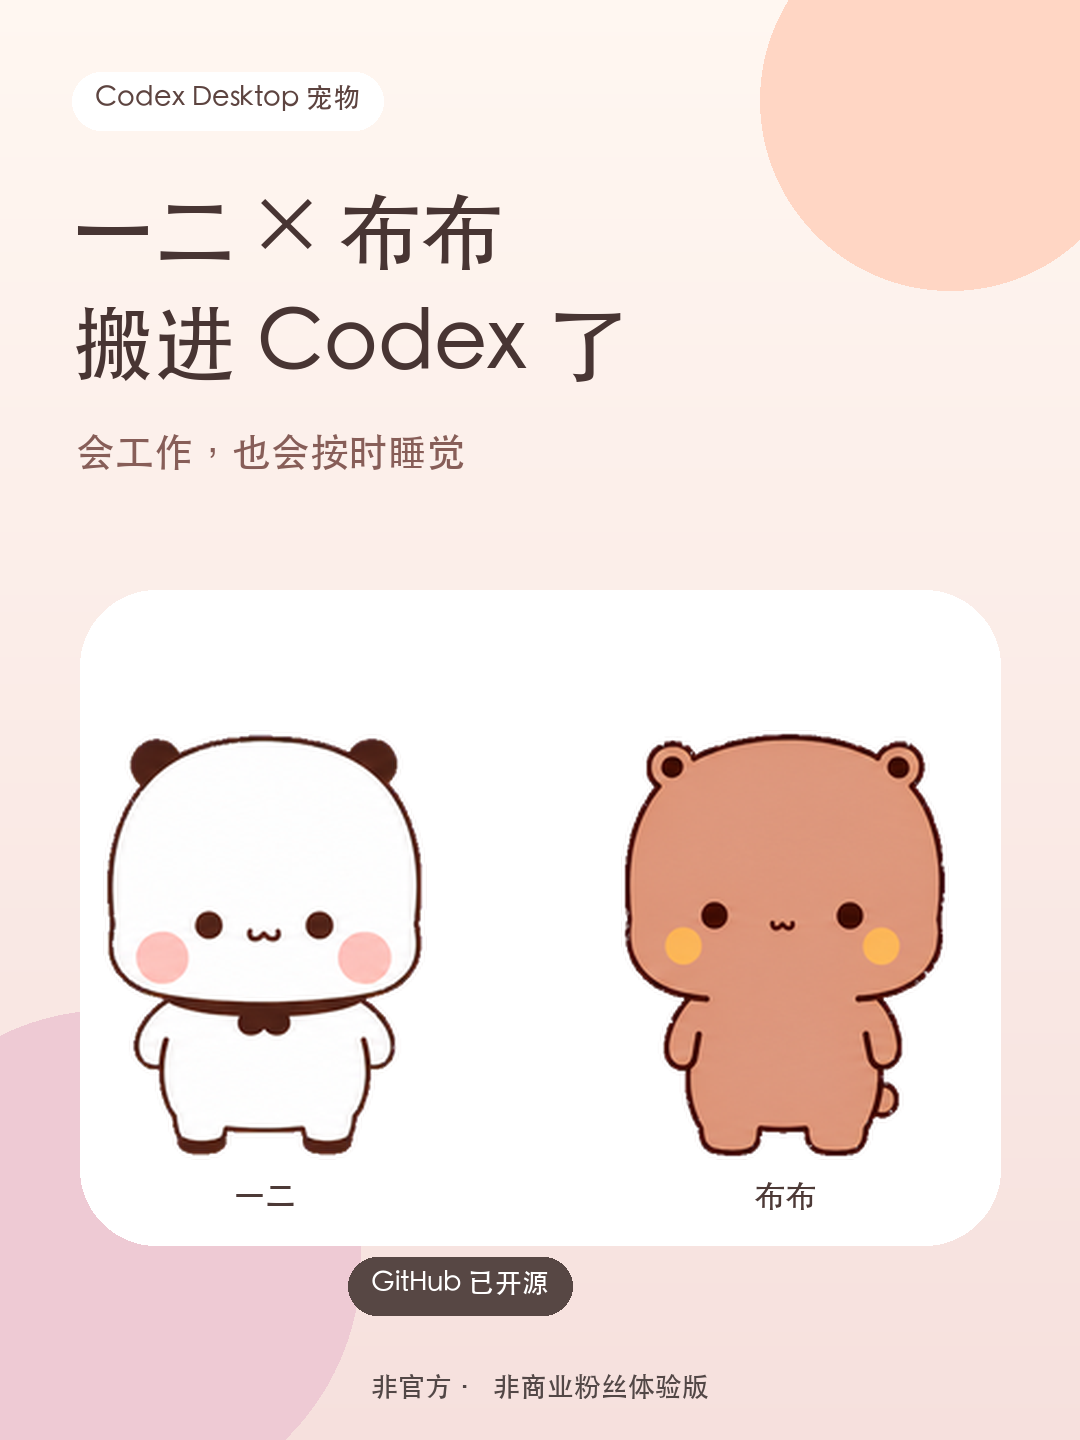
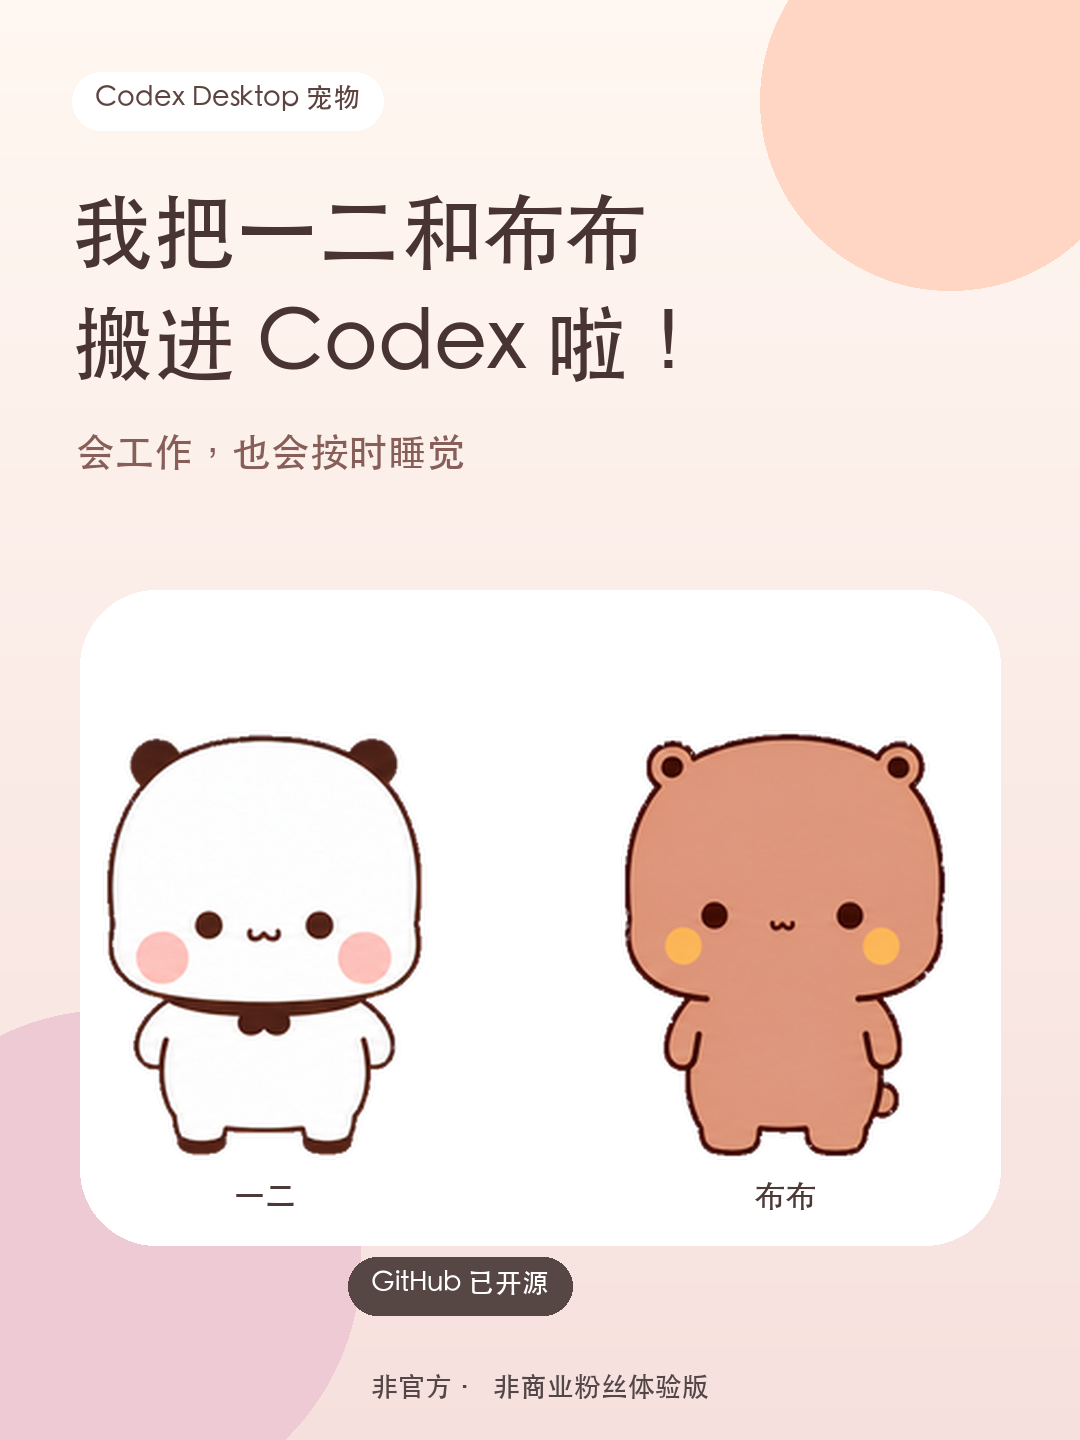
feat: add one-line install and refresh Xiaohongshu assets (#1)

Changed region(s): [[0.0611, 0.125, 0.6111, 0.1875], [0.4889, 0.2188, 0.5806, 0.2812], [0.6111, 0.2188, 0.6417, 0.25]]

diff --git a/scripts/build_xiaohongshu_cards.py b/scripts/build_xiaohongshu_cards.py
@@ -90,8 +90,8 @@ def build_cover() -> None:
     draw.ellipse((760, -90, 1140, 290), fill=(255, 214, 196, 110))
     draw.ellipse((-140, 1010, 360, 1510), fill=(238, 202, 212, 105))
     badge(draw, (72, 72), "Codex Desktop 宠物", (255, 255, 255, 215), (93, 68, 64, 255))
-    draw.text((72, 190), "一二 × 布布", font=F_TITLE, fill=(72, 53, 51, 255))
-    draw.text((72, 302), "搬进 Codex 了", font=F_TITLE, fill=(72, 53, 51, 255))
+    draw.text((72, 190), "我把一二和布布", font=F_TITLE, fill=(72, 53, 51, 255))
+    draw.text((72, 302), "搬进 Codex 啦！", font=F_TITLE, fill=(72, 53, 51, 255))
     draw.text((76, 432), "会工作，也会按时睡觉", font=F_SUBTITLE, fill=(135, 94, 88, 255))
 
     draw.rounded_rectangle((80, 590, 1000, 1245), radius=76, fill=(255, 255, 255, 205))
@@ -134,50 +134,23 @@ def build_install() -> None:
     canvas = gradient((246, 242, 236), (234, 225, 213))
     draw = ImageDraw.Draw(canvas)
     badge(draw, (72, 72), "macOS 安装", (255, 255, 255, 220), (81, 66, 57, 255))
-    draw.text((72, 184), "4 行命令", font=F_TITLE, fill=(65, 52, 46, 255))
-    draw.text((72, 296), "养进 Codex", font=F_TITLE, fill=(65, 52, 46, 255))
+    draw.text((72, 184), "复制这一条", font=F_TITLE, fill=(65, 52, 46, 255))
+    draw.text((72, 296), "就能养进 Codex", font=F_TITLE, fill=(65, 52, 46, 255))
     draw.rounded_rectangle((65, 475, 1015, 1035), radius=45, fill=(44, 40, 40, 245))
-    commands = [
-        ("01", "git clone https://github.com/", 548),
-        ("", "skye-luo/yier-bubu-codex-pet.git", 596),
-        ("02", "cd yier-bubu-codex-pet", 700),
-        ("03", "bash install.sh", 805),
-        ("04", "bash install-sleep-mode.sh", 910),
+    badge(draw, (100, 535), "一条命令", (229, 177, 159, 255), (51, 42, 39, 255))
+    command_lines = [
+        "curl -fsSL https://raw.githubusercontent.com/",
+        "skye-luo/yier-bubu-codex-pet/v1.0.1/",
+        "quick-install.sh | bash",
     ]
-    for number, command, y in commands:
-        if number:
-            draw.rounded_rectangle((100, y - 7, 160, y + 45), radius=16, fill=(229, 177, 159, 255))
-            text_center(draw, (130, y + 2), number, F_CODE, (51, 42, 39, 255))
-        draw.text((190 if number else 190, y), command, font=F_CODE, fill=(245, 241, 237, 255))
+    for index, command in enumerate(command_lines):
+        draw.text((100, 665 + index * 72), command, font=F_CODE, fill=(245, 241, 237, 255))
+    draw.text((100, 915), "同一条命令 · 终端整行复制", font=F_SMALL, fill=(205, 190, 185, 255))
     draw.rounded_rectangle((65, 1085, 1015, 1290), radius=42, fill=(255, 255, 255, 205))
-    draw.text((110, 1128), "安装后重启 Codex", font=F_HEADING, fill=(73, 59, 53, 255))
-    draw.text((110, 1206), "设置 → 外观 → Pets → 选择角色", font=F_BODY, fill=(116, 89, 79, 255))
+    draw.text((110, 1128), "自动安装 + 自动睡眠", font=F_HEADING, fill=(73, 59, 53, 255))
+    draw.text((110, 1206), "重启 Codex → Pets → 选择角色", font=F_BODY, fill=(116, 89, 79, 255))
     footer(draw)
     canvas.convert("RGB").save(OUTPUT / "03-install.png", quality=95)
-
-
-def build_features() -> None:
-    canvas = gradient((251, 246, 247), (240, 230, 235))
-    draw = ImageDraw.Draw(canvas)
-    badge(draw, (72, 72), "独立双角色项目", (255, 255, 255, 220), (90, 64, 73, 255))
-    draw.text((72, 184), "设置里始终只有", font=F_TITLE, fill=(66, 47, 53, 255))
-    draw.text((72, 296), "一二和布布", font=F_TITLE, fill=(66, 47, 53, 255))
-    items = [
-        ("01", "不会出现“睡觉版”角色卡"),
-        ("02", "22 点自动睡，8 点自动醒"),
-        ("03", "安装前备份，可恢复卸载"),
-        ("04", "项目源码与安装说明已公开"),
-    ]
-    for index, (number, value) in enumerate(items):
-        y = 520 + index * 155
-        draw.rounded_rectangle((65, y, 1015, y + 118), radius=38, fill=(255, 255, 255, 210))
-        draw.rounded_rectangle((95, y + 29, 157, y + 91), radius=20, fill=(230, 195, 202, 255))
-        text_center(draw, (126, y + 42), number, F_SMALL, (75, 55, 61, 255))
-        draw.text((190, y + 35), value, font=F_BODY, fill=(78, 58, 64, 255))
-    draw.text((75, 1195), "GitHub", font=F_HEADING, fill=(72, 53, 59, 255))
-    draw.text((75, 1270), "skye-luo / yier-bubu-codex-pet", font=F_BODY, fill=(117, 80, 92, 255))
-    footer(draw)
-    canvas.convert("RGB").save(OUTPUT / "04-features.png", quality=95)
 
 
 def main() -> int:
@@ -185,8 +158,7 @@ def main() -> int:
     build_cover()
     build_sleep()
     build_install()
-    build_features()
-    print(f"已生成 4 张小红书图片：{OUTPUT}")
+    print(f"已生成 3 张小红书图片：{OUTPUT}")
     return 0
 
 

diff --git a/README.md b/README.md
@@ -19,16 +19,22 @@
 - [一二夜间动作表：仅待机行睡觉](docs/yier-sleep-contact-sheet.png)
 - [布布夜间动作表：仅待机行睡觉](docs/bubu-sleep-contact-sheet.png)
 
-## 安装（macOS）
+## 一行安装（macOS）
 
 ```bash
-git clone https://github.com/skye-luo/yier-bubu-codex-pet.git
+curl -fsSL https://raw.githubusercontent.com/skye-luo/yier-bubu-codex-pet/v1.0.1/quick-install.sh | bash
+```
+
+这条命令会安装两个宠物并启用 22:00–08:00 自动睡眠。安装完成后重启 Codex，进入 `设置 → 外观 → Pets`，选择“一二”或“布布”。
+
+如果你希望先查看脚本再执行，也可以使用透明的分步安装：
+
+```bash
+git clone --branch v1.0.1 https://github.com/skye-luo/yier-bubu-codex-pet.git
 cd yier-bubu-codex-pet
 bash install.sh
 bash install-sleep-mode.sh
 ```
-
-安装完成后重启 Codex，进入 `设置 → 外观 → Pets`，选择“一二”或“布布”。
 
 `install-sleep-mode.sh` 会启用自动睡眠：
 
@@ -69,6 +75,7 @@ bash uninstall.sh
 ├── social/xiaohongshu/
 ├── install.sh
 ├── install-sleep-mode.sh
+├── quick-install.sh
 ├── uninstall.sh
 ├── uninstall-sleep-mode.sh
 └── verify.sh

diff --git a/social/xiaohongshu/copy.md b/social/xiaohongshu/copy.md
@@ -2,7 +2,7 @@
 
 ## 标题
 
-一二和布布搬进 Codex 了
+我把一二和布布搬进 Codex 啦！
 
 ## 正文
 
@@ -14,11 +14,11 @@
 • 一旦开始工作，会继续使用原来的工作动画
 • 设置里始终只有“一二”和“布布”，不会多出睡觉版角色
 
-这次已经拆成只包含这两个角色的独立开源项目：
+这次已经拆成只包含这两个角色的独立项目，安装代码已开源：
 GitHub：skye-luo/yier-bubu-codex-pet
-Release：v1.0.0
+Release：v1.0.1
 
-macOS 安装命令在第 3 张图和 README 里。安装完成后重启 Codex，在“设置 → 外观 → Pets”中选择角色。
+macOS 现在只要复制第 3 张图里的一条命令。安装完成后重启 Codex，在“设置 → 外观 → Pets”中选择角色。
 
 这是非官方、非商业的粉丝体验版；角色素材不用于商业用途，完整声明见仓库 ASSET-NOTICE.md。
 
